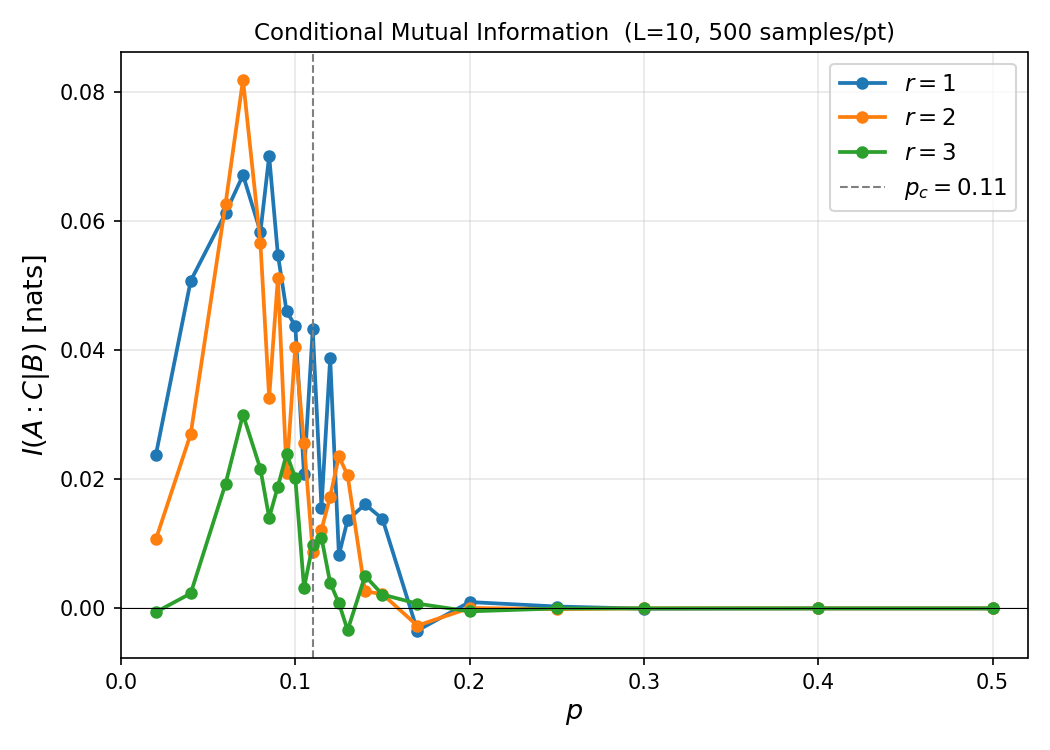
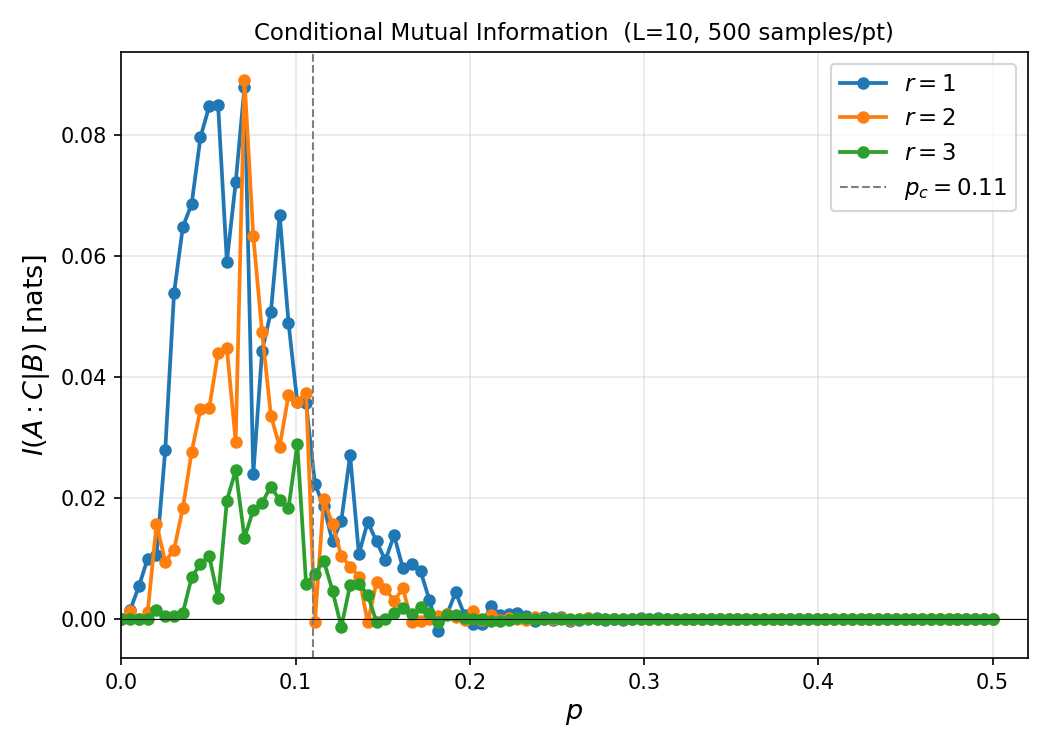
111

diff --git a/MI_scaling/toric_code/plot_CMI_vs_p.py b/MI_scaling/toric_code/plot_CMI_vs_p.py
@@ -23,11 +23,7 @@ r_values    = [1, 2, 3]
 num_samples = 500
 
 # p grid: denser near p_c ≈ 0.11
-p_values = np.array([
-    0.02, 0.04, 0.06, 0.07, 0.08, 0.085, 0.09, 0.095,
-    0.10, 0.105, 0.11, 0.115, 0.12, 0.125,
-    0.13, 0.14, 0.15, 0.17, 0.20, 0.25, 0.30, 0.40, 0.50
-])
+p_values = np.linspace(0, 0.5, 100)
 
 RESULTS_CSV = "CMI_results_L10.csv"
 PLOT_FILE   = "CMI_vs_p_L10.png"
